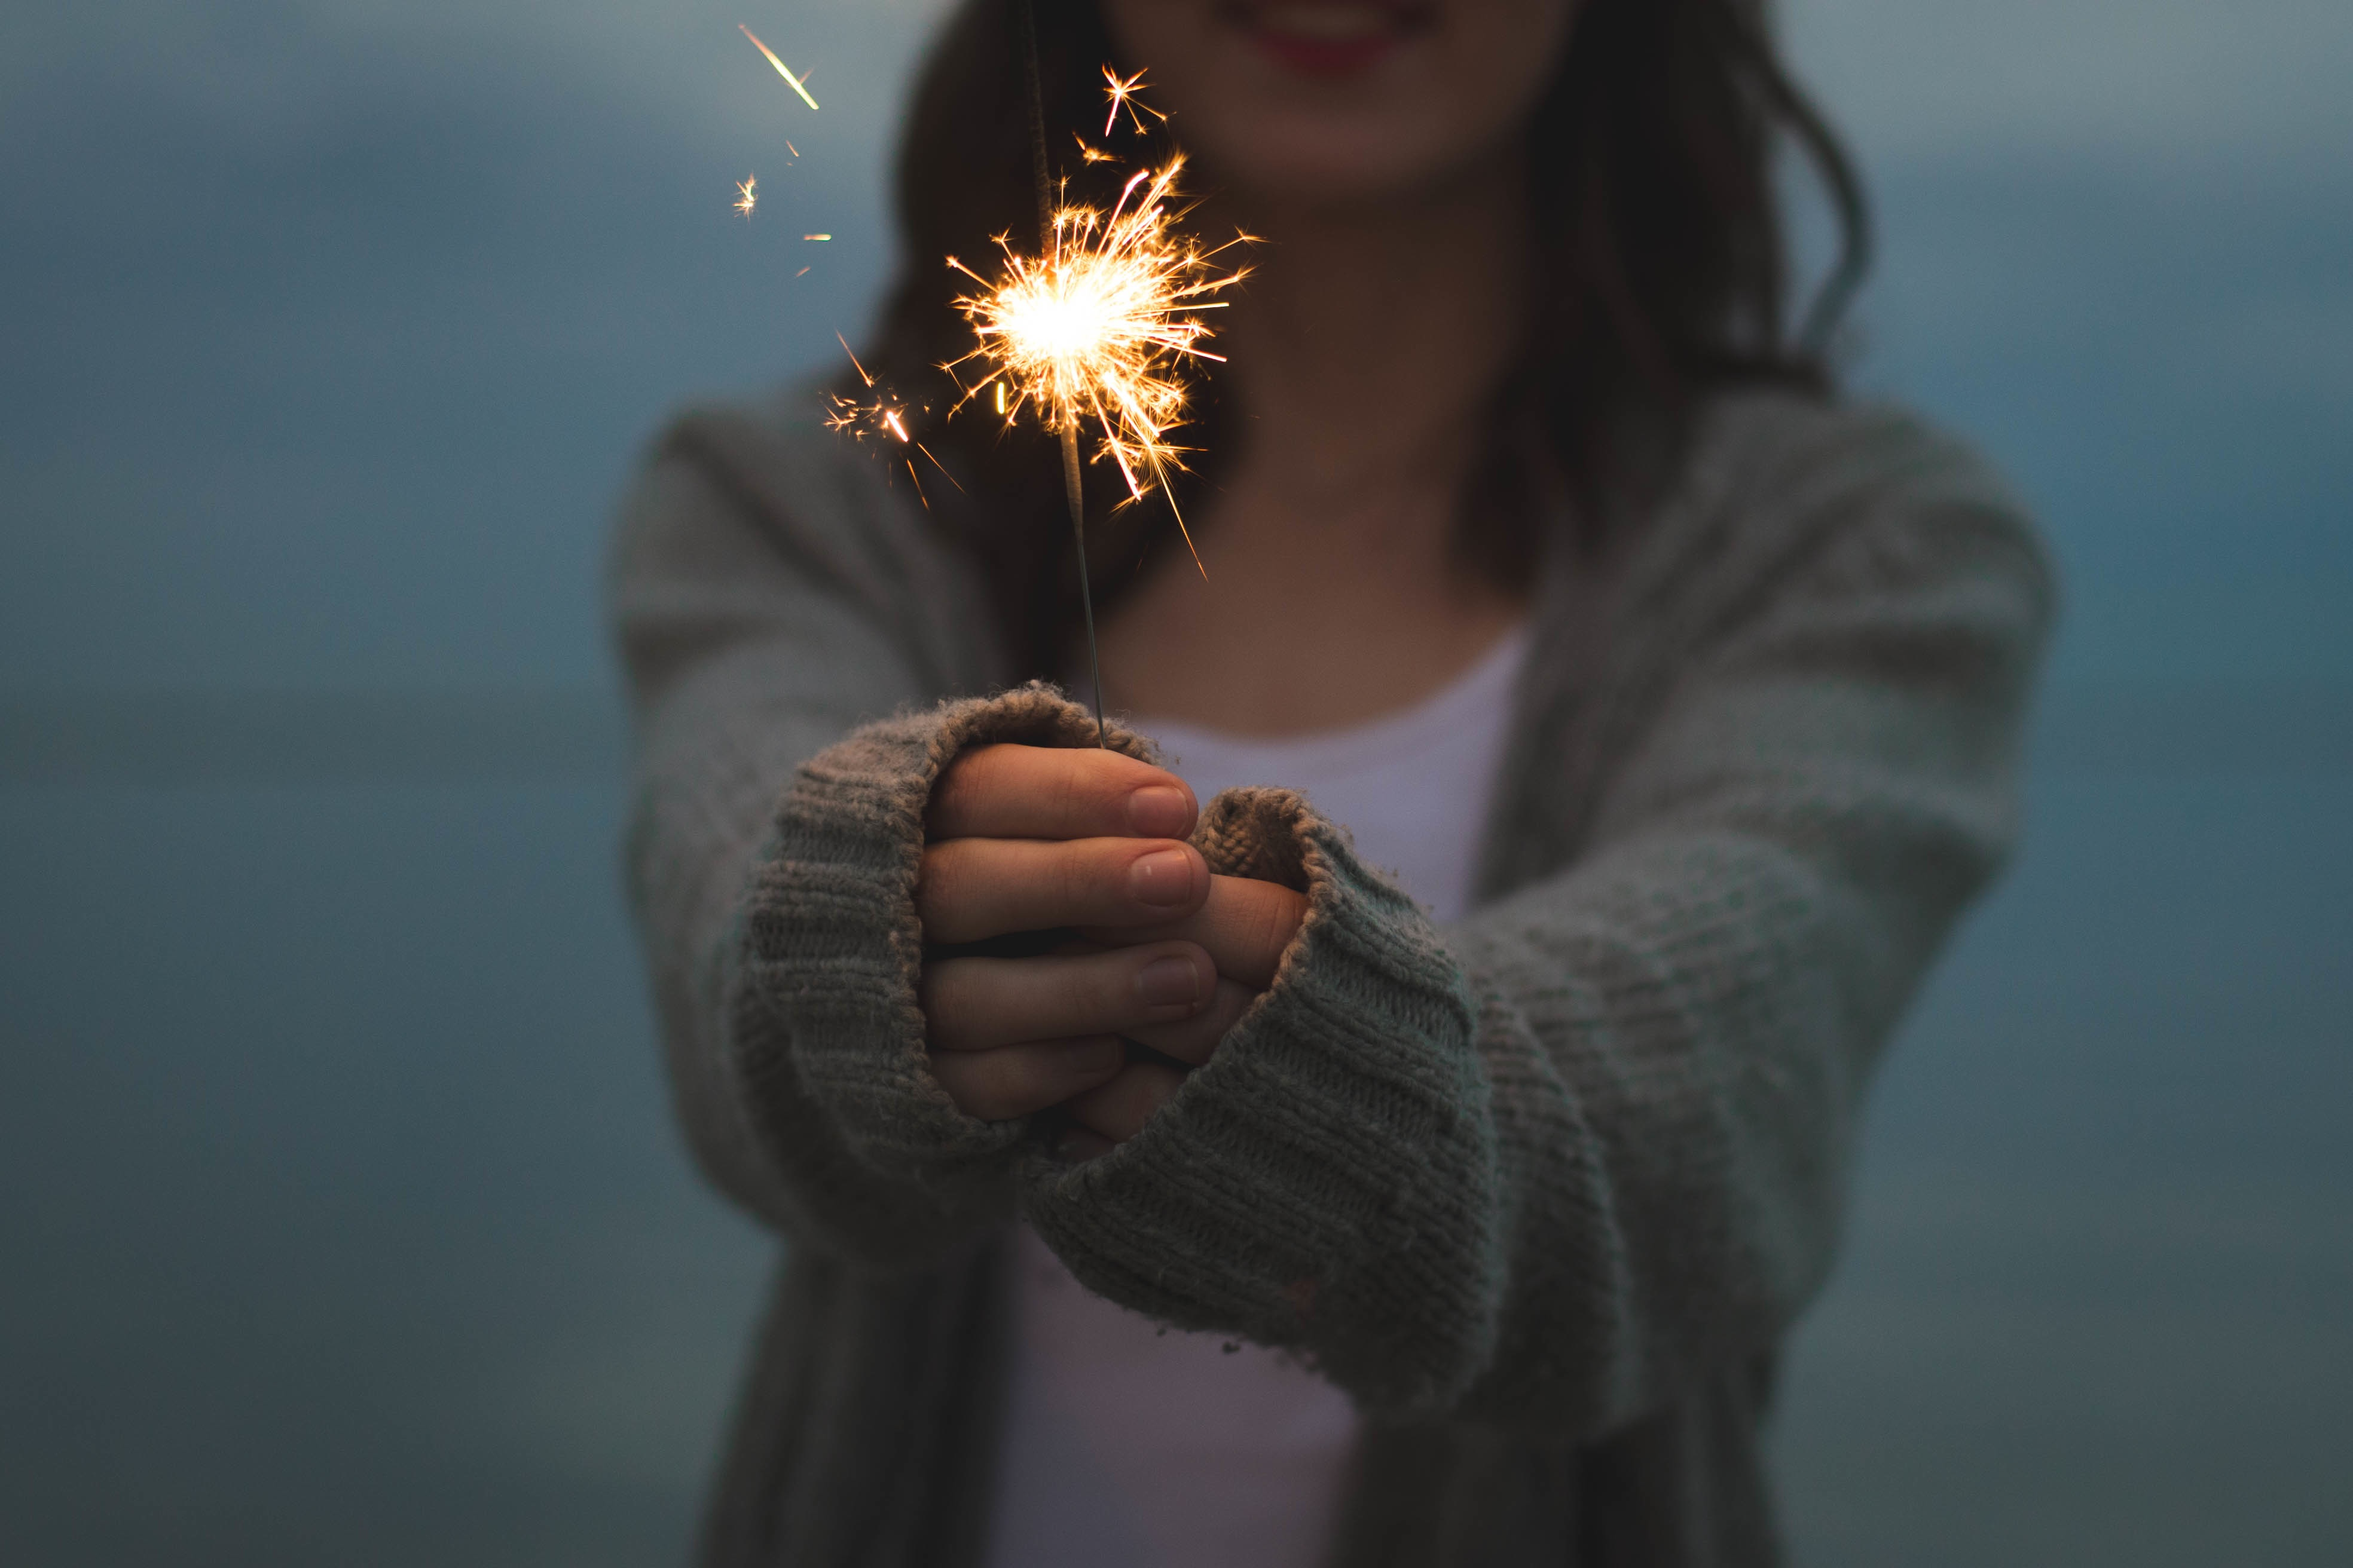
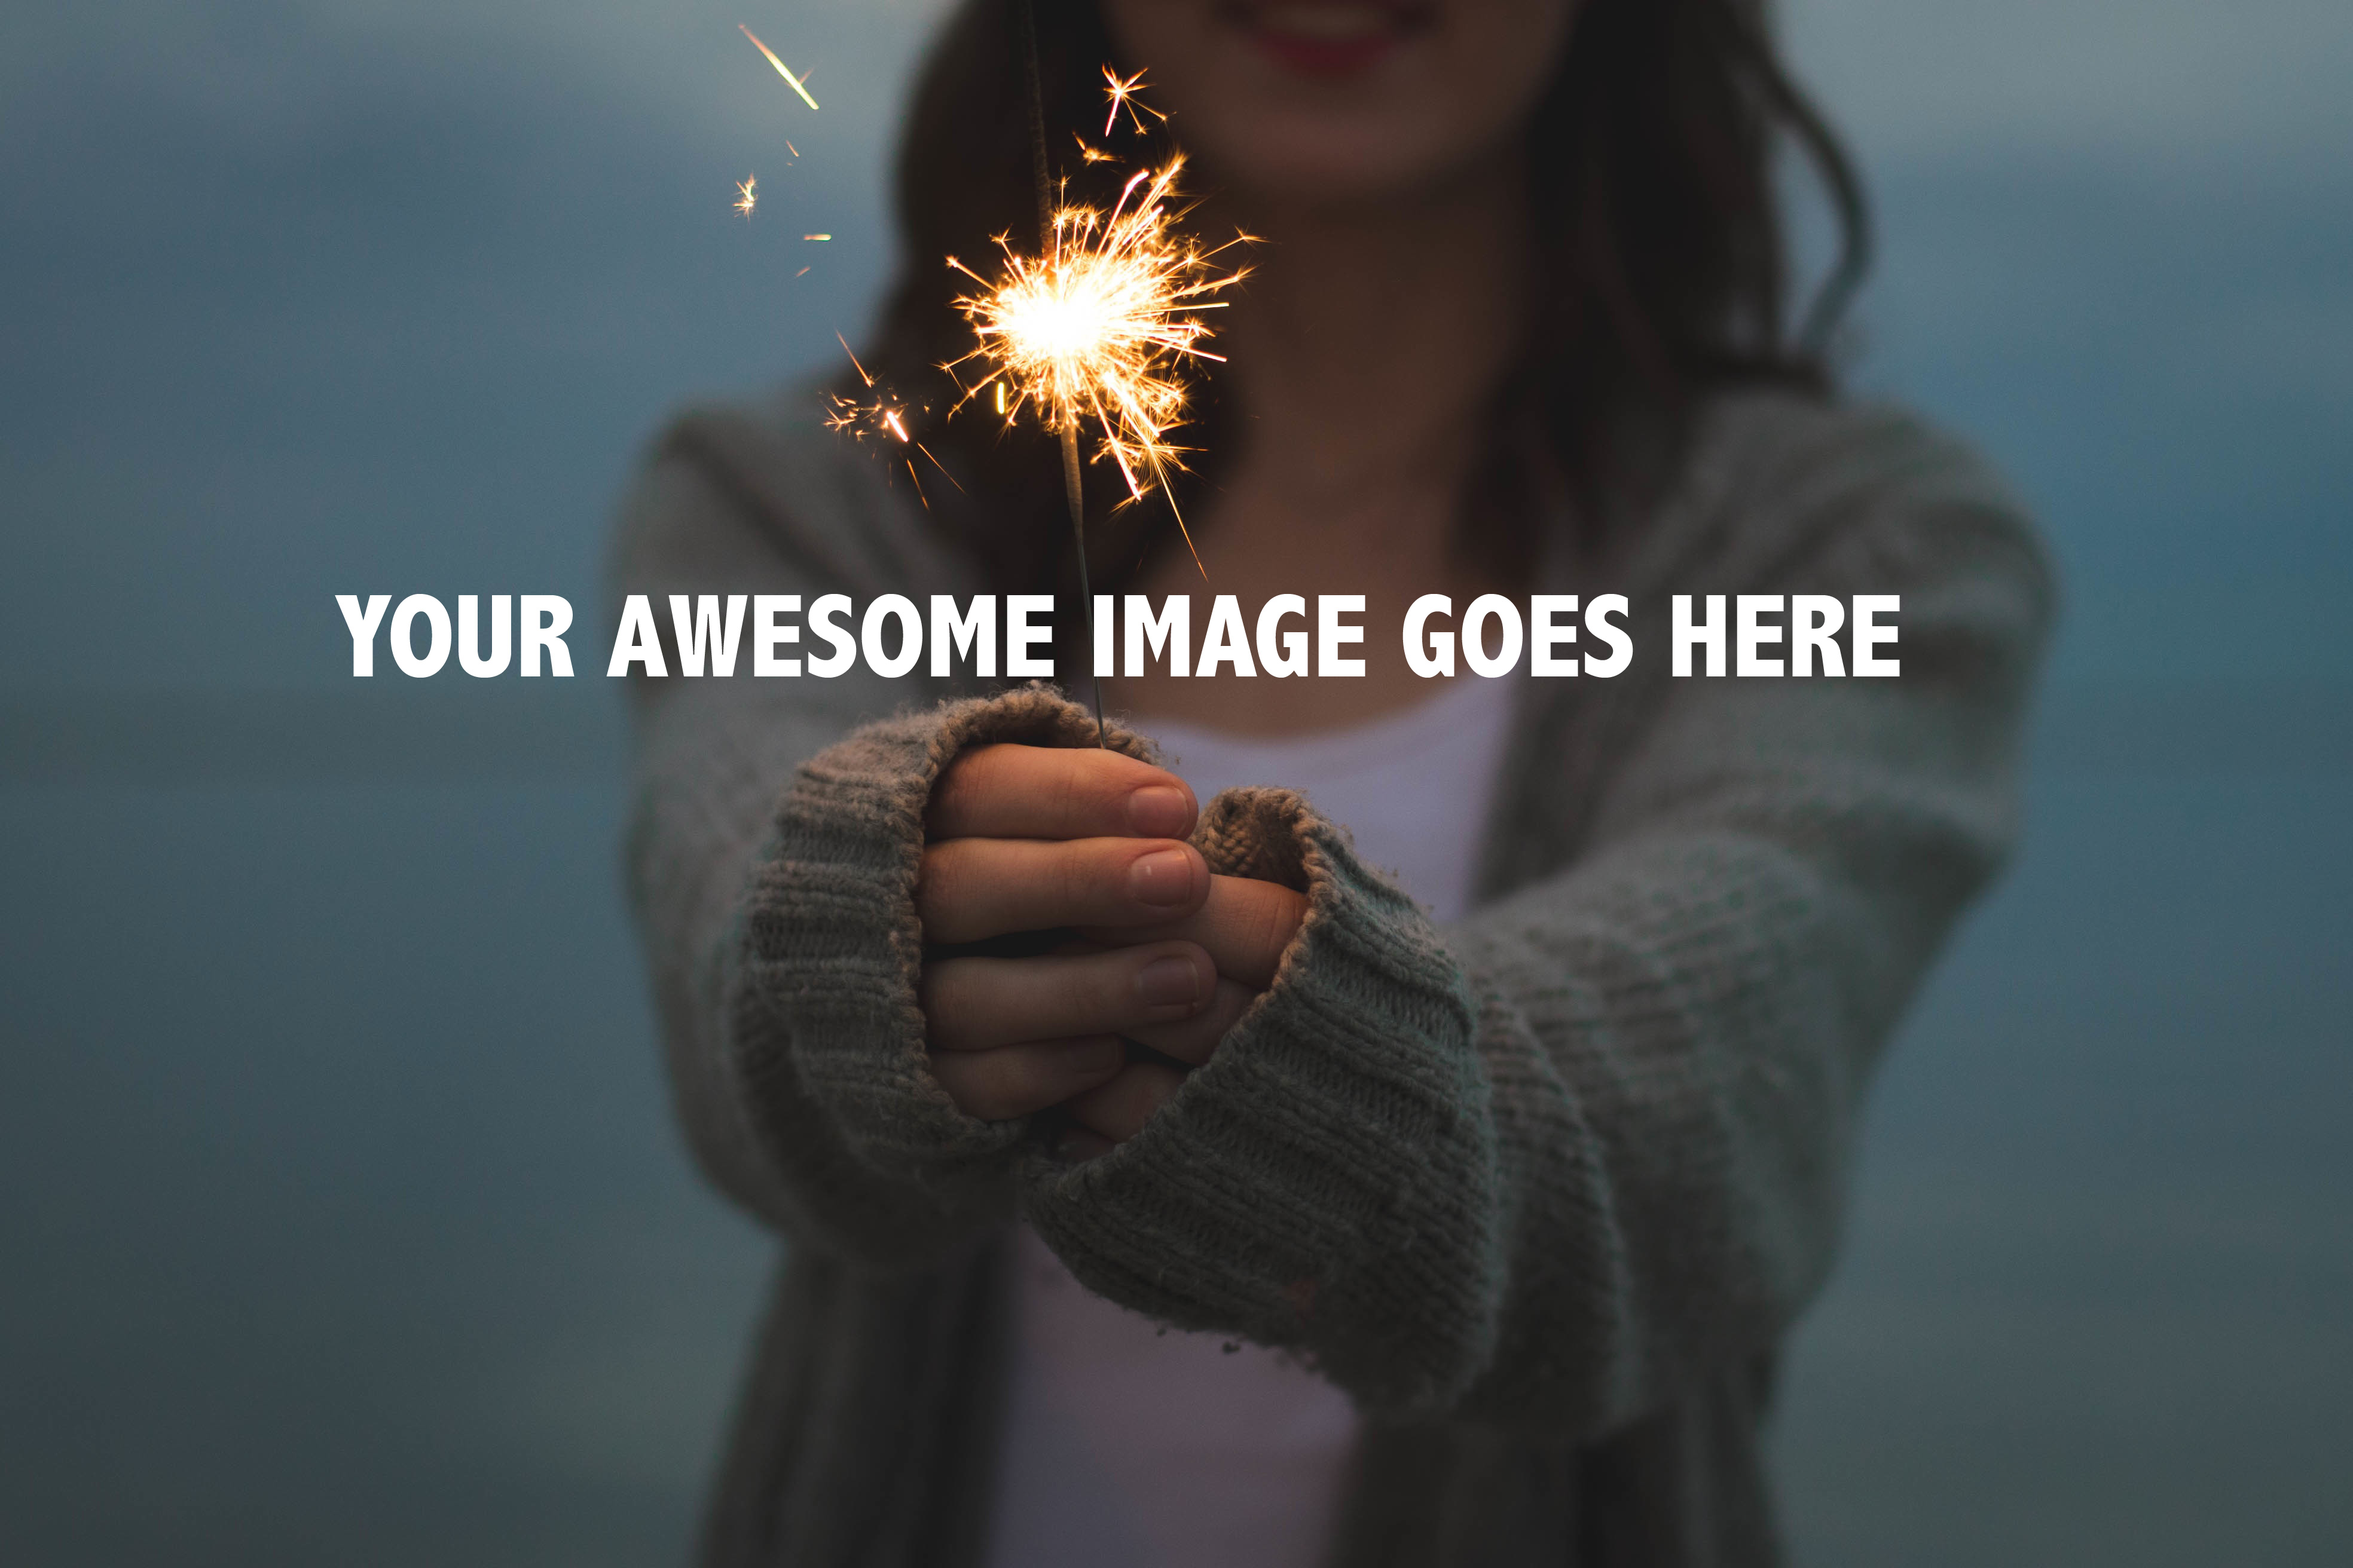
added placeholder for carrierwave

Changed region(s): [[0.125, 0.375, 0.8125, 0.4375]]

diff --git a/db/seeds.rb b/db/seeds.rb
@@ -7,12 +7,12 @@
 #   Mayor.create(name: 'Emanuel', city: cities.first)
 
 
-Offer.create(offer_title: 'Barceló Tambor Beach', offer_description: 'This is a great offer', category: 'Vacation', price: '2300', active: 'Yes')
+Offer.create(offer_title: 'Barceló Tambor Beach', offer_description: 'This is a great offer', category: 'Vacation', price: '2300', active: 'Yes', offerimage: {url: "/uploads/offer/offerimage/1/Joe_and_his_birthday_sash.jpg"})
 
-Offer.create(offer_title: 'Philadelphia to Munich', offer_description: 'This is a not a great offer', category: 'Flight', price: '1299', active: 'Yes')
+Offer.create(offer_title: 'Philadelphia to Munich', offer_description: 'This is a not a great offer', category: 'Flight', price: '1299', active: 'Yes', offerimage: ("http://feed.namespace.com/icon/lcgol.png"))
 
-Offer.create(offer_title: '	Gastro Guide to Nassau', offer_description: 'This is a not a great offer', category: 'Cruise', price: '1010', active: 'No')
+Offer.create(offer_title: '	Gastro Guide to Nassau', offer_description: 'This is a not a great offer', category: 'Cruise', price: '1010', active: 'No', offerimage: '')
 
-Offer.create(offer_title: 'Jolly Beach Resort & Spa', offer_description: 'This is a not a great offer', category: 'Vacation',price: '900', active: 'Yes')
+Offer.create(offer_title: 'Jolly Beach Resort & Spa', offer_description: 'This is a not a great offer', category: 'Vacation',price: '900', active: 'Yes', offerimage: '')
 
-Offer.create(offer_title: 'River Bumpkin Tube & Bike', offer_description: 'This is a not a great offer', category: 'Tour', price: '739', active: 'Yes')
+Offer.create(offer_title: 'River Bumpkin Tube & Bike', offer_description: 'This is a not a great offer', category: 'Tour', price: '739', active: 'Yes', offerimage: '')

diff --git a/app/uploaders/offer_image_uploader.rb b/app/uploaders/offer_image_uploader.rb
@@ -17,12 +17,9 @@ class OfferImageUploader < CarrierWave::Uploader::Base
   end
 
   # Provide a default URL as a default if there hasn't been a file uploaded:
-  # def default_url
-  #   # For Rails 3.1+ asset pipeline compatibility:
-  #   # ActionController::Base.helpers.asset_path("fallback/" + [version_name, "default.png"].compact.join('_'))
-  #
-  #   "/images/fallback/" + [version_name, "default.png"].compact.join('_')
-  # end
+  def default_url(*args)
+    ActionController::Base.helpers.asset_path([version_name, "happy.jpeg"].compact.join('_'))
+  end
 
   # Process files as they are uploaded:
   # process :scale => [200, 300]

diff --git a/app/helpers/application_helper.rb b/app/helpers/application_helper.rb
@@ -1,10 +1,10 @@
 module ApplicationHelper
 
 	def nav_link(link_text, link_path)
-  class_name = current_page?(link_path) ? 'current' : ''
+	class_name = current_page?(link_path) ? 'current' : ''
+		content_tag(:li, :class => class_name) do
+		  link_to link_text, link_path
+		end
+	end
 
-  content_tag(:li, :class => class_name) do
-    link_to link_text, link_path
-  end
-end
 end
